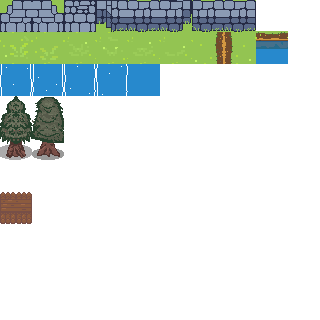
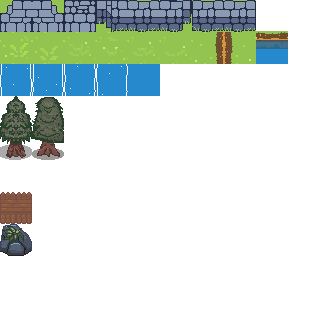
Audio added to game

Changed region(s): [[0.0, 0.6875, 0.125, 0.8125]]

diff --git a/js/main.js b/js/main.js
@@ -25,6 +25,8 @@ import { Raft } from "./raft.js";
 import { updateQuestUI, drawQuestUI, triggerQuestUI } from "./questUI.js";
 import { handleInteractions } from "./interactions.js";
 import { loadSound, playSound } from "./audio.js";
+import { Rock } from "./rocks.js";
+
 
 export const houses = [];
 const QUEST_FLASH_DURATION = 1.2;
@@ -148,6 +150,12 @@ export const trees = [
 
 ];
 
+export const rocks = [
+  { x: 420, y: 610, size: 32 },
+  { x: 460, y: 590, size: 32 },
+  { x: 500, y: 615, size: 48 }
+];
+
 let player;
 
 export const WIDTH = 800;
@@ -232,6 +240,11 @@ function init() {
   player = new Player(8, 46);
   window.player = player; // optional, for debugging only
 
+  const rockX = player.x + 40;
+  const rockY = player.y + 20;
+
+  objects.push(new Rock(rockX, rockY, 32));
+
   npcs = setupNPCs(() => getVillagerDialogue(tutorial));
 
   spawnEnemy(45, 45, "coward");
@@ -254,6 +267,24 @@ function init() {
 
   requestAnimationFrame(gameLoop);
 }
+
+let audioUnlocked = false;
+
+function unlockAudio() {
+  if (audioUnlocked) return;
+
+  Object.values(window.sounds || {}).forEach(a => {
+    a.play().then(() => {
+      a.pause();
+      a.currentTime = 0;
+    }).catch(() => {});
+  });
+
+  audioUnlocked = true;
+}
+
+window.addEventListener("keydown", unlockAudio, { once: true });
+window.addEventListener("mousedown", unlockAudio, { once: true });
 
 // Combat
 let attackCooldown = 0;
@@ -575,6 +606,12 @@ function drawEntitiesSorted() {
   for (const tree of trees) {
     renderables.push(tree);
   }
+
+  // Rocks
+  for (const obj of objects) {
+    renderables.push(obj);
+  }
+
 
   for (const house of houses){
     renderables.push(house);

diff --git a/js/audio.js b/js/audio.js
@@ -1,17 +1,34 @@
 const sounds = {};
+let audioContext;
 
 export function loadSound(name, src, volume = 1) {
   const audio = new Audio(src);
   audio.volume = volume;
+  audio.preload = "auto";
   sounds[name] = audio;
+}
+
+export function unlockAudio() {
+  if (!audioContext) {
+    audioContext = new (window.AudioContext || window.webkitAudioContext)();
+  }
+
+  if (audioContext.state === "suspended") {
+    audioContext.resume();
+  }
+
+  const test = Object.values(sounds)[0];
+  if (test) {
+    test.play().catch(() => {});
+    test.pause();
+    test.currentTime = 0;
+  }
 }
 
 export function playSound(name) {
   const sound = sounds[name];
   if (!sound) return;
 
-  // clone so overlapping sounds work
-  const instance = sound.cloneNode();
-  instance.volume = sound.volume;
-  instance.play();
+  sound.currentTime = 0;
+  sound.play().catch(() => {});
 }

diff --git a/js/input.js b/js/input.js
@@ -1,10 +1,30 @@
-// input.js
+import { unlockAudio } from "./audio.js";
+
 export const keys = {};
 const previousKeys = {};
 
+let audioUnlocked = false;
+
 export function setupInput() {
-  window.addEventListener("keydown", (e) => (keys[e.key] = true));
-  window.addEventListener("keyup", (e) => (keys[e.key] = false));
+  window.addEventListener("keydown", (e) => {
+    keys[e.key] = true;
+
+    if (!audioUnlocked) {
+      unlockAudio();
+      audioUnlocked = true;
+    }
+  });
+
+  window.addEventListener("mousedown", () => {
+    if (!audioUnlocked) {
+      unlockAudio();
+      audioUnlocked = true;
+    }
+  });
+
+  window.addEventListener("keyup", (e) => {
+    keys[e.key] = false;
+  });
 }
 
 export function wasKeyPressed(key) {

diff --git a/js/rocks.js b/js/rocks.js
@@ -1,0 +1,34 @@
+// rocks.js
+const rockImage = new Image();
+rockImage.src = "./pics/background.png";
+
+export class Rock {
+  constructor(x, y, size = 32) {
+    this.x = x;
+    this.y = y;
+    this.size = size;
+    this.solid = true;
+  }
+
+  draw(ctx) {
+    if (!rockImage.complete) return;
+
+    ctx.drawImage(
+      rockImage,
+      0, 7*32, 32, 32,
+      this.x - this.size / 2,
+      this.y - this.size / 2,
+      this.size,
+      this.size
+    );
+  }
+
+  getCollisionBox() {
+    return {
+      x: this.x - this.size / 2,
+      y: this.y - this.size / 2,
+      width: this.size,
+      height: this.size
+    };
+  }
+}
